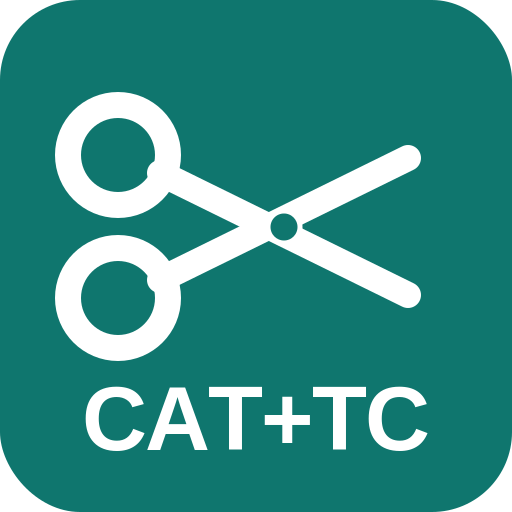
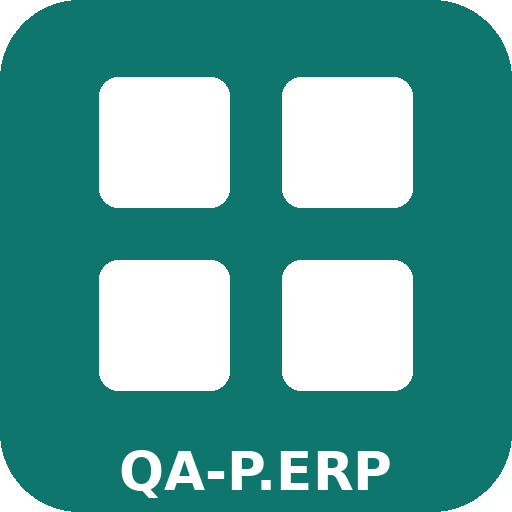
Add files via upload

diff --git a/index.html b/index.html
@@ -7,9 +7,9 @@
 <link rel="manifest" href="manifest.json" />
 <meta name="apple-mobile-web-app-capable" content="yes" />
 <meta name="apple-mobile-web-app-status-bar-style" content="black-translucent" />
-<meta name="apple-mobile-web-app-title" content="CAT+TC" />
+<meta name="apple-mobile-web-app-title" content="QA-P.ERP" />
 <link rel="apple-touch-icon" href="icon-192.png" />
-<title>Ghi nhận sản xuất</title>
+<title>QA-P.ERP</title>
 <script src="https://unpkg.com/html5-qrcode@2.3.8/html5-qrcode.min.js"></script>
 <style>
 :root{
@@ -115,19 +115,28 @@ body{font-family:-apple-system,BlinkMacSystemFont,"Segoe UI",Roboto,sans-serif;b
 @keyframes sp{to{transform:rotate(360deg);}}
 .pad{padding:16px;}
 
-/* ── module picker ──────────────────────────── */
-.mod-group-header{font-size:15px;font-weight:700;color:var(--teal);padding:14px 4px 6px;display:flex;align-items:center;gap:6px;border-bottom:2px solid var(--border);margin-bottom:8px;}
-.mod-group-header:not(:first-child){margin-top:16px;}
-.mod-icon-sm{font-size:20px;}
-.mod-role-tag{font-size:11px;font-weight:600;color:var(--muted);background:var(--bg);padding:2px 8px;border-radius:8px;margin-left:auto;}
-.mod-btn{background:#fff;border:2px solid var(--border);border-radius:16px;padding:18px 16px;text-align:left;cursor:pointer;width:100%;display:flex;align-items:center;gap:14px;}
-.mod-btn.func-btn{padding:14px 16px;border-radius:12px;margin-bottom:6px;}
-.mod-btn:active{border-color:var(--teal);background:#ecfdf5;}
-.mod-icon{font-size:28px;flex-shrink:0;width:44px;height:44px;display:flex;align-items:center;justify-content:center;background:#f0fdf4;border-radius:12px;}
-.mod-info{flex:1;min-width:0;}
-.mod-name{font-size:18px;font-weight:700;color:var(--txt);}
-.func-btn .mod-name{font-size:16px;font-weight:600;}
-.mod-role{font-size:13px;color:var(--muted);margin-top:2px;}
+/* ── module grid (home screen) ──────────────── */
+.mod-grid{display:grid;grid-template-columns:repeat(3,1fr);gap:10px;padding:4px 0;}
+@media(max-width:400px){.mod-grid{grid-template-columns:repeat(2,1fr);}}
+.mod-card{background:#fff;border:2px solid var(--border);border-radius:16px;padding:16px 10px;text-align:center;cursor:pointer;display:flex;flex-direction:column;align-items:center;gap:6px;transition:border-color .15s,opacity .15s;position:relative;}
+.mod-card:active:not(.locked){border-color:var(--teal);background:#ecfdf5;}
+.mod-card.locked{opacity:.45;cursor:not-allowed;background:#f8fafc;}
+.mod-card .mc-icon{font-size:32px;width:52px;height:52px;display:flex;align-items:center;justify-content:center;background:#f0fdf4;border-radius:14px;}
+.mod-card.locked .mc-icon{background:#f1f5f9;}
+.mod-card .mc-name{font-size:13px;font-weight:700;color:var(--txt);line-height:1.2;}
+.mod-card.locked .mc-name{color:var(--muted);}
+.mod-card .mc-tag{font-size:11px;font-weight:600;color:var(--teal);background:#ecfdf5;padding:2px 8px;border-radius:8px;}
+.mod-card.locked .mc-tag{color:var(--muted);background:var(--bg);}
+.mc-lock{position:absolute;top:8px;right:8px;font-size:14px;opacity:.5;}
+
+/* ── module function sub-screen ────────────── */
+.func-list{display:flex;flex-direction:column;gap:8px;padding:4px 0;}
+.func-btn{background:#fff;border:2px solid var(--border);border-radius:14px;padding:14px 16px;text-align:left;cursor:pointer;width:100%;display:flex;align-items:center;gap:12px;}
+.func-btn:active{border-color:var(--teal);background:#ecfdf5;}
+.func-icon{font-size:22px;flex-shrink:0;width:40px;height:40px;display:flex;align-items:center;justify-content:center;background:#f0fdf4;border-radius:10px;}
+.func-info{flex:1;min-width:0;}
+.func-name{font-size:16px;font-weight:700;color:var(--txt);}
+.func-desc{font-size:12px;color:var(--muted);margin-top:2px;}
 </style>
 </head>
 <body>
@@ -136,7 +145,7 @@ body{font-family:-apple-system,BlinkMacSystemFont,"Segoe UI",Roboto,sans-serif;b
      SCREEN 1: Đăng nhập (Username + Mật khẩu)
 ════════════════════════════════════════════ -->
 <section id="screenLogin" class="screen active">
-  <div class="topbar"><div class="ttl">Ghi nhận sản xuất</div></div>
+  <div class="topbar"><div class="ttl">QA-P.ERP</div></div>
   <div class="picker-wrap">
     <p class="picker-sub">Đăng nhập để bắt đầu quét</p>
     <div class="field">
@@ -150,7 +159,7 @@ body{font-family:-apple-system,BlinkMacSystemFont,"Segoe UI",Roboto,sans-serif;b
     <div id="loginErr" class="manual-err"></div>
     <button id="loginBtn" class="btn lg green" onclick="doLogin()" style="margin-top:6px">Đăng nhập</button>
     <div id="loginStatus" class="pick-status" style="display:none"></div>
-    <div style="text-align:center;color:var(--muted);margin-top:28px;font-size:13px">phiên bản 10</div>
+    <div style="text-align:center;color:var(--muted);margin-top:28px;font-size:13px">phiên bản 11</div>
   </div>
 </section>
 
@@ -163,11 +172,23 @@ body{font-family:-apple-system,BlinkMacSystemFont,"Segoe UI",Roboto,sans-serif;b
     <button class="icon-btn" onclick="logout()">Đăng xuất</button>
   </div>
   <div class="picker-wrap">
-    <p class="picker-sub">Chọn chức năng</p>
-    <div id="moduleList" class="pick-list"></div>
+    <p class="picker-sub" id="modSubtitle">Chọn module</p>
+    <div id="moduleGrid" class="mod-grid"></div>
     <div id="moduleNoAccess" class="pick-status" style="display:none;color:var(--red)">
       Tài khoản chưa được gán quyền module nào.<br>Liên hệ quản trị viên.
     </div>
+  </div>
+</section>
+
+<!-- SCREEN 1c: Chức năng trong module -->
+<section id="screenFuncs" class="screen">
+  <div class="topbar">
+    <div class="ttl"><span id="funcModIcon">📋</span> <span id="funcModName">—</span></div>
+    <button class="icon-btn" onclick="backToModules()">← Quay lại</button>
+  </div>
+  <div class="picker-wrap">
+    <p class="picker-sub" id="funcSubtitle">Chọn chức năng</p>
+    <div id="funcList" class="func-list"></div>
   </div>
 </section>
 
@@ -541,64 +562,110 @@ function goHome(){
 /* ══════════════════════════════════════════════════
    SCREEN 1b: Chọn Module
 ══════════════════════════════════════════════════ */
-const MODULE_ICONS = {
-  PD: "🏭", WH: "📦", PU: "🛒", SA: "💰",
-  QC: "✅", MA: "🔧", QT: "📊", AD: "⚙️", HR: "👥", PL: "📅", DL: "🚚"
-};
+/* ── Danh sách 11 module (hiển thị grid) ── */
+const ALL_MODULES = [
+  { ma: "PD", ten: "Sản xuất",     icon: "🏭" },
+  { ma: "WH", ten: "Kho",          icon: "📦" },
+  { ma: "PU", ten: "Mua hàng",     icon: "🛒" },
+  { ma: "SA", ten: "Bán hàng",     icon: "💰" },
+  { ma: "QC", ten: "Chất lượng",   icon: "✅" },
+  { ma: "MA", ten: "Bảo dưỡng",    icon: "🔧" },
+  { ma: "QT", ten: "Kế toán QT",   icon: "📊" },
+  { ma: "AD", ten: "Admin",        icon: "⚙️" },
+  { ma: "HR", ten: "Nhân sự",      icon: "👥" },
+  { ma: "PL", ten: "Kế hoạch",     icon: "📅" },
+  { ma: "DL", ten: "Giao hàng",    icon: "🚚" }
+];
+const MODULE_ICONS = {};
+ALL_MODULES.forEach(m => MODULE_ICONS[m.ma] = m.icon);
+
 const QUYEN_LABELS = {
   XemBaoCao: "Xem báo cáo", NhapLieu: "Nhập liệu",
   Lap: "Lập phiếu", XacNhan: "Xác nhận",
   PheDuyet: "Phê duyệt", Admin: "Quản trị"
 };
 
+/** Nhóm permissions theo module code */
+function groupPermsByModule(){
+  const g = {};
+  state.permissions.forEach(p => {
+    if(!g[p.module]) g[p.module] = { tenModule: p.tenModule, quyen: p.quyen, funcs: [] };
+    g[p.module].funcs.push(p);
+  });
+  return g;
+}
+
 function enterModuleScreen(){
   document.getElementById("modUser").textContent = state.user;
-  const wrap = document.getElementById("moduleList");
+  document.getElementById("modSubtitle").textContent = "Chọn module";
+  const grid = document.getElementById("moduleGrid");
   const noAccess = document.getElementById("moduleNoAccess");
-  wrap.innerHTML = "";
+  grid.innerHTML = "";
 
-  if(!state.permissions.length){
-    noAccess.style.display = "block";
-    show("screenModules");
-    return;
-  }
-  noAccess.style.display = "none";
+  const permGroups = groupPermsByModule();
+  const hasAny = state.permissions.length > 0;
+  noAccess.style.display = hasAny ? "none" : "block";
 
-  // Nhóm chức năng theo module
-  const groups = {};
-  state.permissions.forEach(p => {
-    if(!groups[p.module]) groups[p.module] = { tenModule: p.tenModule, quyen: p.quyen, funcs: [] };
-    groups[p.module].funcs.push(p);
-  });
+  ALL_MODULES.forEach(mod => {
+    const hasAccess = !!permGroups[mod.ma];
+    const quyen = hasAccess ? permGroups[mod.ma].quyen : null;
 
-  Object.keys(groups).forEach(modCode => {
-    const g = groups[modCode];
-    const icon = MODULE_ICONS[modCode] || "📋";
-    const quyenLabel = QUYEN_LABELS[g.quyen] || g.quyen;
+    const card = document.createElement("div");
+    card.className = "mod-card" + (hasAccess ? "" : " locked");
+    card.innerHTML =
+      '<div class="mc-icon">' + mod.icon + '</div>' +
+      '<div class="mc-name">' + esc(mod.ten) + '</div>' +
+      (hasAccess
+        ? '<div class="mc-tag">' + esc(QUYEN_LABELS[quyen] || quyen) + '</div>'
+        : '<div class="mc-lock">🔒</div>');
 
-    // Header module
-    const header = document.createElement("div");
-    header.className = "mod-group-header";
-    header.innerHTML = '<span class="mod-icon-sm">' + icon + '</span> ' +
-      esc(g.tenModule || modCode) +
-      ' <span class="mod-role-tag">' + esc(quyenLabel) + '</span>';
-    wrap.appendChild(header);
-
-    // Nút cho từng chức năng
-    g.funcs.forEach(p => {
-      const btn = document.createElement("button");
-      btn.className = "mod-btn func-btn";
-      btn.innerHTML =
-        '<div class="mod-info">' +
-          '<div class="mod-name">' + esc(p.chucNang || p.tenModule) + '</div>' +
-          '<div class="mod-role">Yêu cầu: ' + esc(QUYEN_LABELS[p.quyenMin] || p.quyenMin) + '</div>' +
-        '</div>';
-      btn.onclick = () => selectFunction(p);
-      wrap.appendChild(btn);
-    });
+    if(hasAccess){
+      card.onclick = () => openModuleFuncs(mod.ma, permGroups[mod.ma]);
+    } else {
+      card.onclick = () => showToast("Bạn chưa có quyền truy cập " + mod.ten, 2000);
+    }
+    grid.appendChild(card);
   });
 
   show("screenModules");
+}
+
+/** Mở sub-screen chức năng trong 1 module */
+function openModuleFuncs(modCode, group){
+  const mod = ALL_MODULES.find(m => m.ma === modCode) || {};
+
+  // Nếu module chỉ có 1 chức năng → vào thẳng, không hiện sub-screen
+  if(group.funcs.length === 1){
+    selectFunction(group.funcs[0]);
+    return;
+  }
+
+  document.getElementById("funcModIcon").textContent = mod.icon || "📋";
+  document.getElementById("funcModName").textContent = group.tenModule || mod.ten || modCode;
+  document.getElementById("funcSubtitle").textContent =
+    group.funcs.length + " chức năng · Quyền: " + (QUYEN_LABELS[group.quyen] || group.quyen);
+
+  const list = document.getElementById("funcList");
+  list.innerHTML = "";
+
+  group.funcs.forEach(p => {
+    const btn = document.createElement("button");
+    btn.className = "func-btn";
+    btn.innerHTML =
+      '<div class="func-icon">' + (mod.icon || "📋") + '</div>' +
+      '<div class="func-info">' +
+        '<div class="func-name">' + esc(p.chucNang || p.tenModule) + '</div>' +
+        '<div class="func-desc">Yêu cầu: ' + esc(QUYEN_LABELS[p.quyenMin] || p.quyenMin) + '</div>' +
+      '</div>';
+    btn.onclick = () => selectFunction(p);
+    list.appendChild(btn);
+  });
+
+  show("screenFuncs");
+}
+
+function backToModules(){
+  enterModuleScreen();
 }
 
 function selectFunction(p){

diff --git a/sw.js b/sw.js
@@ -1,4 +1,4 @@
-const CACHE = 'ghinhan-v5';
+const CACHE = 'qap-erp-v8';
 const ASSETS = [
   './',
   './index.html',